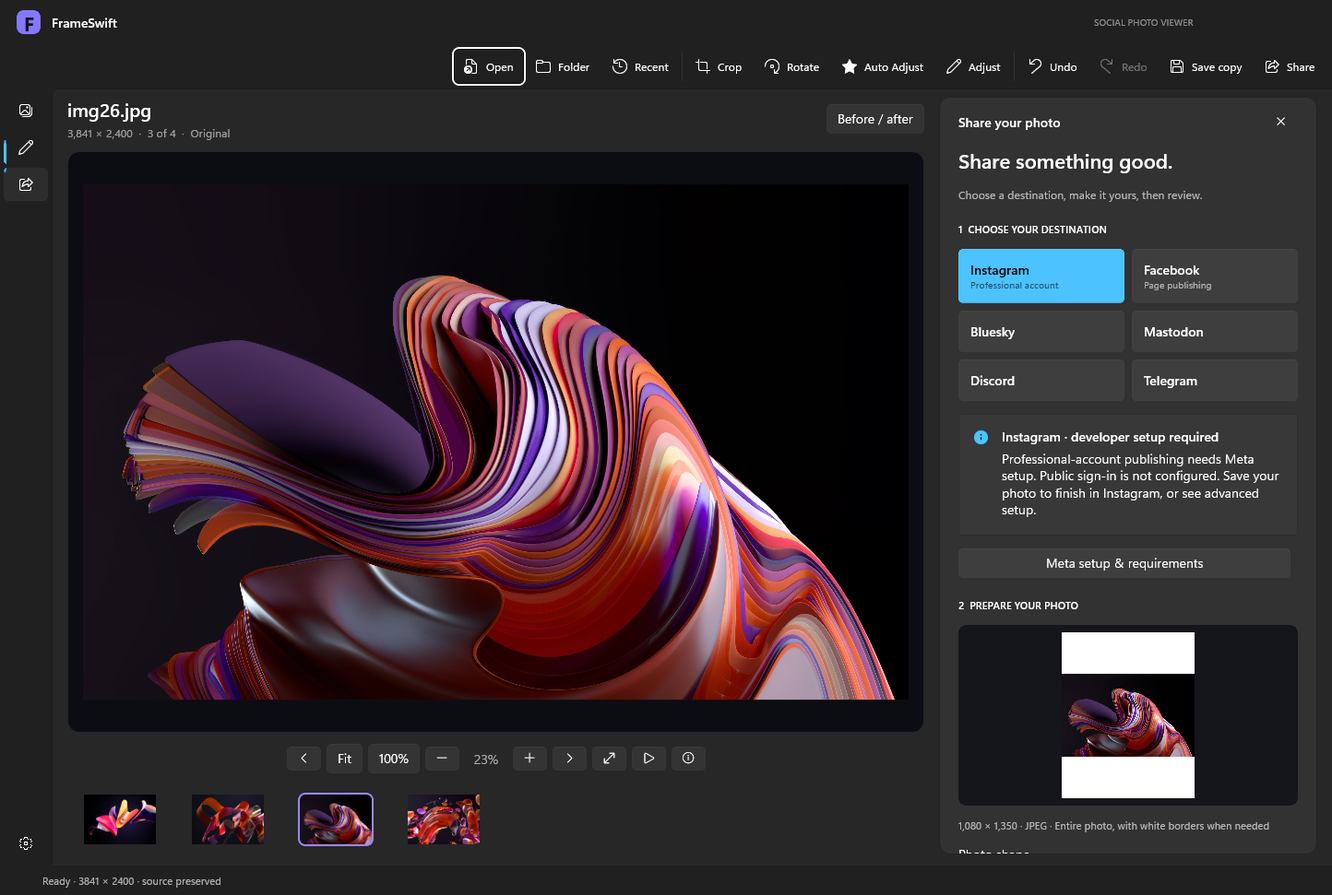
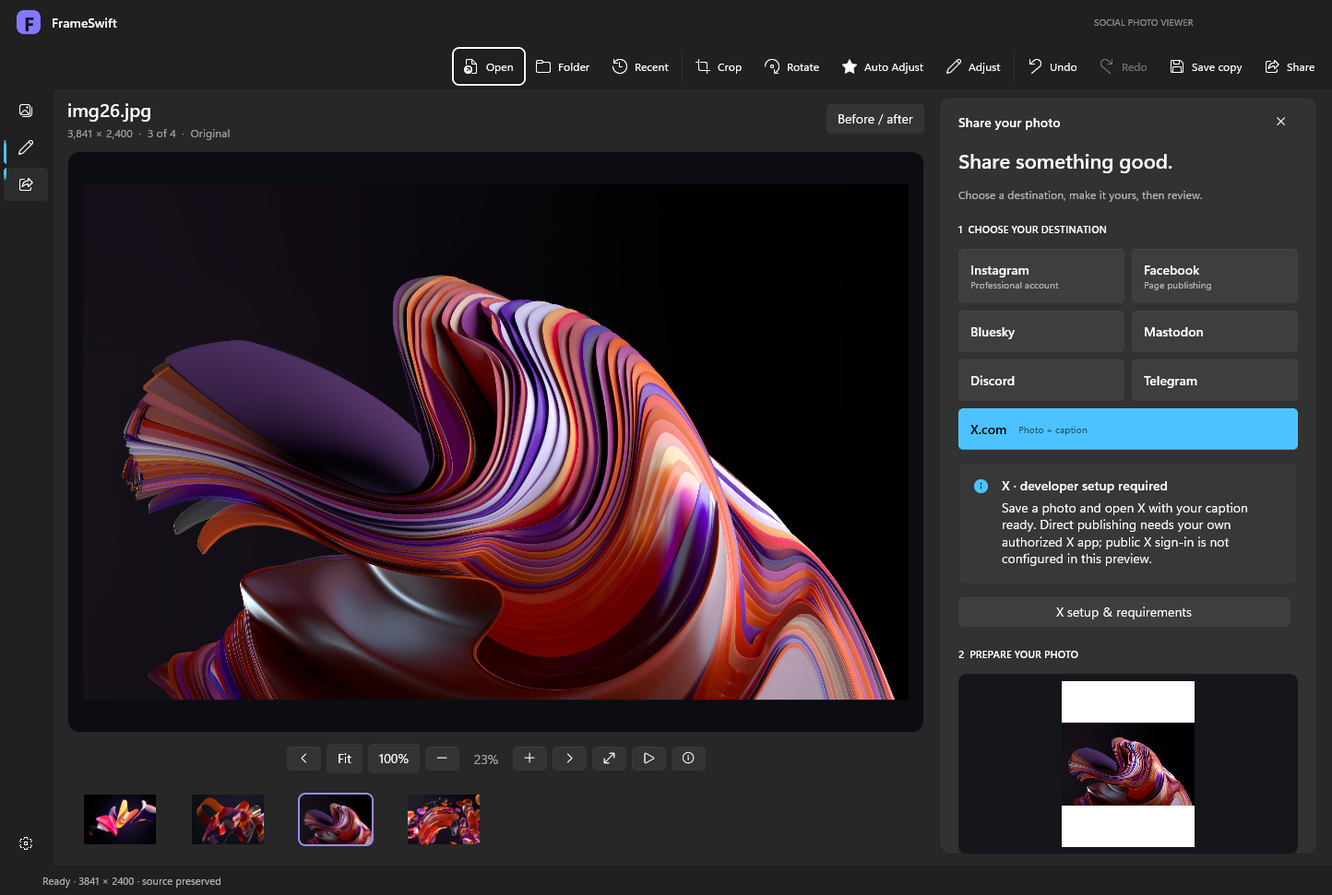
Add X.com sharing options, setup guide, and 1.2.1 download

Changed region(s): [[0.7168, 0.4325, 0.9972, 0.9578], [0.7168, 0.2781, 0.8414, 0.3399]]

diff --git a/docs/index.html b/docs/index.html
@@ -9,21 +9,21 @@
 <meta property="og:type" content="website"><meta property="og:title" content="FrameSwift — Your photos. A better view."><meta property="og:description" content="View, fine-tune, and share. A free native photo viewer for Windows by Prosper Technologies."><meta property="og:url" content="https://ProsperTechnology.github.io/frameswift/"><meta property="og:image" content="https://ProsperTechnology.github.io/frameswift/assets/viewer.png">
 <meta name="twitter:card" content="summary_large_image">
 <link rel="icon" href="assets/icon.svg" type="image/svg+xml"><link rel="stylesheet" href="style.css">
-<script type="application/ld+json">{"@context":"https://schema.org","@type":"SoftwareApplication","name":"FrameSwift Social Photo Viewer","applicationCategory":"MultimediaApplication","operatingSystem":"Windows 10 2004 or later (x64), Windows 11","softwareVersion":"1.2.0 preview","offers":{"@type":"Offer","price":"0","priceCurrency":"USD"},"author":{"@type":"Organization","name":"Prosper Technologies"},"downloadUrl":"https://github.com/ProsperTechnology/frameswift/releases/download/v1.2.0/FrameSwift-1.2.0-Setup-x64.exe"}</script>
+<script type="application/ld+json">{"@context":"https://schema.org","@type":"SoftwareApplication","name":"FrameSwift Social Photo Viewer","applicationCategory":"MultimediaApplication","operatingSystem":"Windows 10 2004 or later (x64), Windows 11","softwareVersion":"1.2.1 preview","offers":{"@type":"Offer","price":"0","priceCurrency":"USD"},"author":{"@type":"Organization","name":"Prosper Technologies"},"downloadUrl":"https://github.com/ProsperTechnology/frameswift/releases/download/v1.2.1/FrameSwift-1.2.1-Setup-x64.exe"}</script>
 <script src="script.js" defer></script>
 </head>
 <body>
 <a class="skip" href="#main">Skip to content</a>
 <header class="header"><a class="brand" href="#" aria-label="FrameSwift home"><img src="assets/icon.svg" width="36" height="36" alt=""><span>FrameSwift<small>SOCIAL PHOTO VIEWER</small></span></a><nav id="nav" aria-label="Main navigation"><a href="#experience">Experience</a><a href="#editing">Editing</a><a href="#sharing">Sharing</a><a href="#faq">Questions</a><a class="nav-download" href="#download">Get FrameSwift <span aria-hidden="true">↗</span></a></nav></header>
 <main id="main">
-<section class="hero wrap"><div class="hero-copy"><a class="pill" href="#download"><span class="dot"></span> FREE WINDOWS PREVIEW <span>1.2.0 ↗</span></a><h1>Your photos.<br>A <em>better</em> view.</h1><p class="lede">Give your photos the space they deserve.<br>View beautifully. Fine-tune effortlessly.<br>Share when you’re ready.</p><div class="actions"><a class="button primary download" href="https://github.com/ProsperTechnology/frameswift/releases/download/v1.2.0/FrameSwift-1.2.0-Setup-x64.exe"><svg viewBox="0 0 24 24" aria-hidden="true"><path d="M12 3v12m-5-5 5 5 5-5M4 16v5h16v-5"/></svg> Download for Windows</a><a class="text-link" href="#experience">Take a closer look <span>↓</span></a></div><p class="micro">Free preview · Windows 10 / 11 · 64-bit · 85 MB</p></div><div class="hero-art"><div class="art-caption"><span>01 / A VIEW WORTH OPENING</span><span>FRAMESWIFT FOR WINDOWS</span></div><a href="#experience" class="hero-window" aria-label="Explore the FrameSwift viewer"><img src="assets/viewer.png" alt="Actual FrameSwift photo viewer with folder thumbnails, zoom controls, and editing toolbar" width="1444" height="971" fetchpriority="high"></a><div class="floating-note"><span class="spark">✦</span><div>Your photo, front and center.<small>A native Windows experience.</small></div></div><div class="art-footer"><span>OPEN. ENJOY. MAKE IT YOURS.</span><span class="orbital">↗</span></div></div></section>
+<section class="hero wrap"><div class="hero-copy"><a class="pill" href="#download"><span class="dot"></span> FREE WINDOWS PREVIEW <span>1.2.1 ↗</span></a><h1>Your photos.<br>A <em>better</em> view.</h1><p class="lede">Give your photos the space they deserve.<br>View beautifully. Fine-tune effortlessly.<br>Share when you’re ready.</p><div class="actions"><a class="button primary download" href="https://github.com/ProsperTechnology/frameswift/releases/download/v1.2.1/FrameSwift-1.2.1-Setup-x64.exe"><svg viewBox="0 0 24 24" aria-hidden="true"><path d="M12 3v12m-5-5 5 5 5-5M4 16v5h16v-5"/></svg> Download for Windows</a><a class="text-link" href="#experience">Take a closer look <span>↓</span></a></div><p class="micro">Free preview · Windows 10 / 11 · 64-bit · 85 MB</p></div><div class="hero-art"><div class="art-caption"><span>01 / A VIEW WORTH OPENING</span><span>FRAMESWIFT FOR WINDOWS</span></div><a href="#experience" class="hero-window" aria-label="Explore the FrameSwift viewer"><img src="assets/viewer.png" alt="Actual FrameSwift photo viewer with folder thumbnails, zoom controls, and editing toolbar" width="1444" height="971" fetchpriority="high"></a><div class="floating-note"><span class="spark">✦</span><div>Your photo, front and center.<small>A native Windows experience.</small></div></div><div class="art-footer"><span>OPEN. ENJOY. MAKE IT YOURS.</span><span class="orbital">↗</span></div></div></section>
 <div class="capability-bar"><div class="wrap"><span>BUILT AROUND YOUR PHOTOS</span><p>Fullscreen viewing <b>✦</b> Nondestructive edits <b>✦</b> Sharing options <b>✦</b> Free to use</p></div></div>
 <section class="wrap experience section" id="experience"><div class="section-intro"><span class="eyebrow">01 — THE EVERYDAY VIEWER, RECONSIDERED</span><h2>Less in the way.<br><em>More in the frame.</em></h2><p>Open a photo. Browse the whole folder. Step into fullscreen. FrameSwift brings the essentials together in a photo-first workspace.</p></div><div class="showcase"><div class="tabs" role="tablist" aria-label="App screenshots"><button id="tab-viewer" role="tab" aria-selected="true" aria-controls="screenshot-panel" data-view="viewer" tabindex="0">01 <span>View</span></button><button id="tab-editor" role="tab" aria-selected="false" aria-controls="screenshot-panel" data-view="editor" tabindex="-1">02 <span>Edit</span></button><button id="tab-fullscreen" role="tab" aria-selected="false" aria-controls="screenshot-panel" data-view="fullscreen" tabindex="-1">03 <span>Immerse</span></button><button id="tab-sharing" role="tab" aria-selected="false" aria-controls="screenshot-panel" data-view="sharing" tabindex="-1">04 <span>Share</span></button></div><div id="screenshot-panel" class="screenshot-panel" role="tabpanel" aria-labelledby="tab-viewer" tabindex="0"><img id="app-shot" src="assets/viewer.png" alt="FrameSwift viewer with folder thumbnails and zoom controls" width="1444" height="971" loading="lazy"></div><div class="shot-caption"><p id="shot-description">Browse a folder, jump between thumbnails, zoom to actual pixels, or let a slideshow take over.</p><span>ACTUAL APP CAPTURE</span></div></div><div class="viewer-details"><article><span>↔</span><h3>Find your flow</h3><p>Arrow-key browsing, drag-and-drop, a thumbnail strip, and recent folders keep everyday viewing simple.</p></article><article><span>⤢</span><h3>Look a little closer</h3><p>Fit to window, inspect at 100%, zoom and pan, or hide the interface in fullscreen.</p></article><article><span>◐</span><h3>Make it feel at home</h3><p>Light and dark appearance, saved preferences, and an invitation to become your default viewer.</p></article></div></section>
 <section class="edit-section" id="editing"><div class="wrap edit-grid"><div class="edit-visual"><img src="assets/editor.png" alt="FrameSwift native editor showing crop and image adjustment tools" width="1444" height="971" loading="lazy"><div class="edit-tag"><span>✦</span> Small changes. Big difference.</div></div><div class="edit-copy"><span class="eyebrow">02 — A LITTLE POLISH GOES A LONG WAY</span><h2>That’s the shot.<br><em>Now make it shine.</em></h2><p>You shouldn’t need a separate creative suite to straighten up a photo or give it a little life.</p><ol class="edit-list"><li><span>01</span><div><h3>Find the perfect frame</h3><p>Crop freely or use square, portrait, landscape, and story presets. Rotate and flip in a moment.</p></div></li><li><span>02</span><div><h3>Let Auto Adjust help</h3><p>Start with a one-click tone and color adjustment. Then dial in exposure, highlights, shadows, warmth, and sharpness.</p></div></li><li><span>03</span><div><h3>Keep your original</h3><p>Compare before and after, undo your changes, and save a full-resolution JPEG or PNG copy.</p></div></li></ol><span class="small-label">YOUR SOURCE PHOTO STAYS UNCHANGED.</span></div></div></section>
-<section class="wrap section sharing" id="sharing"><div class="section-intro"><span class="eyebrow">03 — FROM YOUR FOLDER TO YOUR PEOPLE</span><h2>Great photos<br>deserve <em>company.</em></h2><p>Finish the edit, add your words, review the destination. Sharing belongs in the same flow.</p></div><div class="share-explorer"><div class="platforms" aria-label="Explore sharing integrations"><button class="platform" data-platform="instagram" aria-pressed="false"><span class="platform-letter">I</span><span>Instagram<small>Meta setup required</small></span><span>↗</span></button><button class="platform" data-platform="facebook" aria-pressed="false"><span class="platform-letter">F</span><span>Facebook<small>Page integration prepared</small></span><span>↗</span></button><button class="platform active" data-platform="bluesky" aria-pressed="true"><span class="platform-letter">B</span><span>Bluesky<small>Photo + caption</small></span><span>↗</span></button><button class="platform" data-platform="mastodon" aria-pressed="false"><span class="platform-letter">M</span><span>Mastodon<small>Your server, your audience</small></span><span>↗</span></button><button class="platform" data-platform="discord" aria-pressed="false"><span class="platform-letter">D</span><span>Discord<small>Channel webhooks</small></span><span>↗</span></button><button class="platform" data-platform="telegram" aria-pressed="false"><span class="platform-letter">T</span><span>Telegram<small>Bot-powered sharing</small></span><span>↗</span></button></div><div class="share-detail" aria-live="polite"><span class="eyebrow">EXPLORE YOUR SHARING OPTIONS</span><h3 id="platform-title">A photo worth a post.</h3><p id="platform-description">Connect Bluesky with your handle and an app password. Add a caption and image description, then review before publishing a public post.</p><div class="share-steps"><span>Connect</span><i>→</i><span>Compose</span><i>→</i><span>Review & share</span></div><p class="share-note">Connections stay in memory and clear when the app closes. Integrations are in preview; live publishing needs broader verification. Instagram/Facebook developer setup and ordinary website handoff are described separately.</p></div></div><p class="integration-limit">Instagram and Facebook now have a guided photo handoff and prepared developer publishing integrations. Public Meta sign-in is not configured. <a href="meta-setup.txt">Read the Meta setup guide ↗</a></p></section>
+<section class="wrap section sharing" id="sharing"><div class="section-intro"><span class="eyebrow">03 — FROM YOUR FOLDER TO YOUR PEOPLE</span><h2>Great photos<br>deserve <em>company.</em></h2><p>Finish the edit, add your words, review the destination. Sharing belongs in the same flow.</p></div><div class="share-explorer"><div class="platforms" aria-label="Explore sharing integrations"><button class="platform" data-platform="x" aria-pressed="false"><span class="platform-letter">X</span><span>X.com<small>Caption-ready browser sharing</small></span><span>↗</span></button><button class="platform" data-platform="instagram" aria-pressed="false"><span class="platform-letter">I</span><span>Instagram<small>Meta setup required</small></span><span>↗</span></button><button class="platform" data-platform="facebook" aria-pressed="false"><span class="platform-letter">F</span><span>Facebook<small>Page integration prepared</small></span><span>↗</span></button><button class="platform active" data-platform="bluesky" aria-pressed="true"><span class="platform-letter">B</span><span>Bluesky<small>Photo + caption</small></span><span>↗</span></button><button class="platform" data-platform="mastodon" aria-pressed="false"><span class="platform-letter">M</span><span>Mastodon<small>Your server, your audience</small></span><span>↗</span></button><button class="platform" data-platform="discord" aria-pressed="false"><span class="platform-letter">D</span><span>Discord<small>Channel webhooks</small></span><span>↗</span></button><button class="platform" data-platform="telegram" aria-pressed="false"><span class="platform-letter">T</span><span>Telegram<small>Bot-powered sharing</small></span><span>↗</span></button></div><div class="share-detail" aria-live="polite"><span class="eyebrow">EXPLORE YOUR SHARING OPTIONS</span><h3 id="platform-title">A photo worth a post.</h3><p id="platform-description">Connect Bluesky with your handle and an app password. Add a caption and image description, then review before publishing a public post.</p><div class="share-steps"><span>Connect</span><i>→</i><span>Compose</span><i>→</i><span>Review & share</span></div><p class="share-note">Connections stay in memory and clear when the app closes. Integrations are in preview; live publishing needs broader verification. Instagram/Facebook/X developer setup and ordinary website handoff are described separately.</p></div></div><p class="integration-limit">Instagram and Facebook now have a guided photo handoff and prepared developer publishing integrations. Public Meta sign-in is not configured. <a href="meta-setup.txt">Read the Meta setup guide ↗</a> · X.com includes a caption-prefilled browser handoff and a prepared API integration. <a href="x-setup.txt">X setup guide ↗</a></p></section>
 <section class="trust-section"><div class="wrap trust-grid"><div><span class="eyebrow">A DESKTOP APP. YOUR DESKTOP.</span><h2>At home on Windows.<br><em>Respectful of your photos.</em></h2></div><div class="trust-points"><article><h3>Native, through and through</h3><p>Built with WinUI 3 and hardware-accelerated image effects. Designed for a Windows desktop workflow.</p></article><article><h3>Your files stay local</h3><p>No FrameSwift cloud account, analytics, or ads. Direct uploads require confirmation. Instagram developer tests additionally use a public image host you control.</p></article><article><h3>You choose the default</h3><p>FrameSwift asks on first launch. Choose Make default to open Windows Settings, or Not now to carry on.</p></article></div></div></section>
-<section class="wrap section faq" id="faq"><div><span class="eyebrow">A FEW THINGS TO KNOW</span><h2>Good questions.<br><em>Clear answers.</em></h2><a class="text-link" href="https://github.com/ProsperTechnology/frameswift/issues">Have feedback? Open an issue ↗</a></div><div class="questions"><details open><summary>Is FrameSwift free?</summary><p>Yes. The current FrameSwift preview is free to download and use, with no subscription, ads, or FrameSwift account required.</p></details><details><summary>What does my PC need?</summary><p>A 64-bit PC running Windows 10 version 2004 or later, or Windows 11. Windows 11 is the primary test platform. The installer includes the app runtimes and Microsoft’s signed Visual C++ runtime installer, used if needed.</p></details><details><summary>Can it replace my default image viewer?</summary><p>FrameSwift asks on first launch. Choose Make default, then select FrameSwift Social Photo Viewer for your image types in Windows Default apps. You can revisit this from FrameSwift Settings. Your Windows choices are never changed without your selection.</p></details><details><summary>Which image formats can I open?</summary><p>JPEG, PNG, BMP, GIF, and TIFF are the basic formats. GIF and TIFF display the first frame or page. WebP, HEIC/HEIF, and AVIF depend on installed Windows codecs. RAW, SVG, animated playback, and multipage navigation are not included.</p></details><details><summary>Does editing change the original photo?</summary><p>Edits are kept as a recipe while you work. Save copy exports a new JPEG or PNG and protects the original filename. Optional recovery can restore edits after an unexpected exit when the original source still matches.</p></details><details><summary>What should I know about this preview?</summary><p>Version 1.2.0 is an early preview. The app and installer are unsigned, so Windows may display a publisher warning. Check the release and checksum before deciding to install. Rendering, export, persistence, installation, reinstall, and uninstall checks passed; live social posting, all codecs, and every hardware configuration have not been verified. Instagram/Facebook public sign-in requires a configured Meta app, approval, and hosted services. Full-resolution operations are limited to 80 megapixels and device limits.</p></details><details><summary>How do I uninstall it?</summary><p>Remove FrameSwift from Windows Settings → Apps → Installed apps. The uninstaller removes the application and its owned registration and shortcuts. Your personal photos and saved preferences are preserved.</p></details></div></section>
-<section class="wrap download-section" id="download"><div class="download-card"><div><span class="eyebrow">MAKE ROOM FOR A BETTER VIEW</span><h2>Your next photo<br>looks good <em>here.</em></h2><p>FrameSwift Social Photo Viewer<br>Free Windows preview by Prosper Technologies.</p><a class="button cream download" href="https://github.com/ProsperTechnology/frameswift/releases/download/v1.2.0/FrameSwift-1.2.0-Setup-x64.exe">Download for Windows <span>↓</span></a><p class="download-meta">VERSION 1.2.0 · 85 MB · WINDOWS X64</p></div><div class="download-info"><span class="release-label">PREVIEW RELEASE</span><h3>Ready to try it?</h3><ol><li>Download and run the Windows installer.</li><li>Open a photo or folder in FrameSwift.</li><li>Choose whether to make it your default viewer.</li></ol><p>This preview is unsigned. Windows may display a publisher warning. Review the release details before installing.</p><div class="release-links"><a href="https://github.com/ProsperTechnology/frameswift/releases/tag/v1.2.0">Release notes ↗</a><a href="https://github.com/ProsperTechnology/frameswift/releases/download/v1.2.0/FrameSwift-1.2.0-Setup-x64.exe.sha256">SHA-256 file ↓</a></div><button class="checksum" id="copy-checksum">Copy installer checksum <span>⧉</span></button><code id="checksum">4d4e78719da79d437983aa29094d97ff92fae21a20506c1576d89015dc500162</code><span id="copy-status" role="status"></span></div></div></section>
+<section class="wrap section faq" id="faq"><div><span class="eyebrow">A FEW THINGS TO KNOW</span><h2>Good questions.<br><em>Clear answers.</em></h2><a class="text-link" href="https://github.com/ProsperTechnology/frameswift/issues">Have feedback? Open an issue ↗</a></div><div class="questions"><details open><summary>Is FrameSwift free?</summary><p>Yes. The current FrameSwift preview is free to download and use, with no subscription, ads, or FrameSwift account required.</p></details><details><summary>What does my PC need?</summary><p>A 64-bit PC running Windows 10 version 2004 or later, or Windows 11. Windows 11 is the primary test platform. The installer includes the app runtimes and Microsoft’s signed Visual C++ runtime installer, used if needed.</p></details><details><summary>Can it replace my default image viewer?</summary><p>FrameSwift asks on first launch. Choose Make default, then select FrameSwift Social Photo Viewer for your image types in Windows Default apps. You can revisit this from FrameSwift Settings. Your Windows choices are never changed without your selection.</p></details><details><summary>Which image formats can I open?</summary><p>JPEG, PNG, BMP, GIF, and TIFF are the basic formats. GIF and TIFF display the first frame or page. WebP, HEIC/HEIF, and AVIF depend on installed Windows codecs. RAW, SVG, animated playback, and multipage navigation are not included.</p></details><details><summary>Does editing change the original photo?</summary><p>Edits are kept as a recipe while you work. Save copy exports a new JPEG or PNG and protects the original filename. Optional recovery can restore edits after an unexpected exit when the original source still matches.</p></details><details><summary>What should I know about this preview?</summary><p>Version 1.2.1 is an early preview. The app and installer are unsigned, so Windows may display a publisher warning. Check the release and checksum before deciding to install. Rendering, export, persistence, installation, reinstall, and uninstall checks passed; live social posting, all codecs, and every hardware configuration have not been verified. Instagram/Facebook public sign-in requires a configured Meta app, approval, and hosted services. Full-resolution operations are limited to 80 megapixels and device limits.</p></details><details><summary>How do I uninstall it?</summary><p>Remove FrameSwift from Windows Settings → Apps → Installed apps. The uninstaller removes the application and its owned registration and shortcuts. Your personal photos and saved preferences are preserved.</p></details></div></section>
+<section class="wrap download-section" id="download"><div class="download-card"><div><span class="eyebrow">MAKE ROOM FOR A BETTER VIEW</span><h2>Your next photo<br>looks good <em>here.</em></h2><p>FrameSwift Social Photo Viewer<br>Free Windows preview by Prosper Technologies.</p><a class="button cream download" href="https://github.com/ProsperTechnology/frameswift/releases/download/v1.2.1/FrameSwift-1.2.1-Setup-x64.exe">Download for Windows <span>↓</span></a><p class="download-meta">VERSION 1.2.1 · 85 MB · WINDOWS X64</p></div><div class="download-info"><span class="release-label">PREVIEW RELEASE</span><h3>Ready to try it?</h3><ol><li>Download and run the Windows installer.</li><li>Open a photo or folder in FrameSwift.</li><li>Choose whether to make it your default viewer.</li></ol><p>This preview is unsigned. Windows may display a publisher warning. Review the release details before installing.</p><div class="release-links"><a href="https://github.com/ProsperTechnology/frameswift/releases/tag/v1.2.1">Release notes ↗</a><a href="https://github.com/ProsperTechnology/frameswift/releases/download/v1.2.1/FrameSwift-1.2.1-Setup-x64.exe.sha256">SHA-256 file ↓</a></div><button class="checksum" id="copy-checksum">Copy installer checksum <span>⧉</span></button><code id="checksum">e321e31efcd9bd36d3b8c6467454376c803ee5f347eb13ad1dc1a218db11e2dd</code><span id="copy-status" role="status"></span></div></div></section>
 </main>
 <footer class="wrap footer"><a class="brand" href="#"><img src="assets/icon.svg" width="30" height="30" alt=""><span>FrameSwift<small>BY PROSPER TECHNOLOGIES</small></span></a><p>View. Fine-tune. Share.</p><div><a href="https://github.com/ProsperTechnology/frameswift">GitHub ↗</a><a href="https://github.com/ProsperTechnology/frameswift/issues">Feedback ↗</a><span>© 2026 Prosper Technologies</span></div></footer>
 </body></html>

diff --git a/docs/script.js b/docs/script.js
@@ -1,8 +1,8 @@
 'use strict';
-const views={sharing:{src:"assets/sharing.png",alt:"FrameSwift sharing workspace showing Instagram and Facebook destinations and prepared photo preview",description:"Choose a destination, preview the photo, add a caption, and review. Meta connections clearly show the setup still needed."},viewer:{src:'assets/viewer.png',alt:'FrameSwift viewer with folder thumbnails and zoom controls',description:'Browse a folder, jump between thumbnails, zoom to actual pixels, or let a slideshow take over.'},editor:{src:'assets/editor.png',alt:'FrameSwift editor with native crop and image adjustment controls',description:'Crop, rotate, and fine-tune tone and color. Compare your changes and save a new copy.'},fullscreen:{src:'assets/fullscreen.png',alt:'FrameSwift immersive fullscreen photo view',description:'Let the photo fill the screen. Step into immersive fullscreen and keep the interface out of the way.'}};
+const views={sharing:{src:"assets/sharing.png",alt:"FrameSwift sharing workspace showing X.com, Instagram and Facebook destinations and prepared photo preview",description:"Choose a destination, preview the photo, add a caption, and review. Meta connections clearly show the setup still needed."},viewer:{src:'assets/viewer.png',alt:'FrameSwift viewer with folder thumbnails and zoom controls',description:'Browse a folder, jump between thumbnails, zoom to actual pixels, or let a slideshow take over.'},editor:{src:'assets/editor.png',alt:'FrameSwift editor with native crop and image adjustment controls',description:'Crop, rotate, and fine-tune tone and color. Compare your changes and save a new copy.'},fullscreen:{src:'assets/fullscreen.png',alt:'FrameSwift immersive fullscreen photo view',description:'Let the photo fill the screen. Step into immersive fullscreen and keep the interface out of the way.'}};
 const tabs=[...document.querySelectorAll('[data-view]')];
 function selectView(tab){const view=views[tab.dataset.view];tabs.forEach(t=>{t.setAttribute('aria-selected',String(t===tab));t.tabIndex=t===tab?0:-1;});const shot=document.querySelector('#app-shot');shot.src=view.src;shot.alt=view.alt;document.querySelector('#shot-description').textContent=view.description;document.querySelector('#screenshot-panel').setAttribute('aria-labelledby',tab.id);}
 tabs.forEach((tab,index)=>{tab.addEventListener('click',()=>selectView(tab));tab.addEventListener('keydown',e=>{let next;if(e.key==='ArrowRight')next=(index+1)%tabs.length;else if(e.key==='ArrowLeft')next=(index+tabs.length-1)%tabs.length;else if(e.key==='Home')next=0;else if(e.key==='End')next=tabs.length-1;else return;e.preventDefault();selectView(tabs[next]);tabs[next].focus();});});
-const platforms={instagram:["Your photo, ready for Instagram.","Choose Instagram, preview the framing, then save your photo and open Instagram to finish the post there. The professional-account API integration is prepared for developer tests; public Meta sign-in and media hosting are not configured."],facebook:["From your viewer to your Facebook Page.","Save a prepared photo and finish on Facebook. A Facebook Page photo-publishing adapter is also available for developers using their own authorized Meta app and Page token. Direct publishing to personal profiles is not supported."],bluesky:['A photo worth a post.','Connect Bluesky with your handle and an app password. Add a caption and image description, then review before publishing a public post.'],mastodon:['Share with your corner of the fediverse.','Connect to your Mastodon server through browser authorization. Write a caption and image description, then review before publishing a public post.'],discord:['Bring it to the conversation.','Connect a webhook for a Discord channel you manage. Review your image, caption, and destination before posting as the channel webhook. Forum channels are not supported.'],telegram:['Send it to your community.','Connect your Telegram bot token and chat or channel ID. Review the photo and caption before sending as your bot. The bot must have access to the destination.']};
-document.querySelectorAll('[data-platform]').forEach(button=>button.addEventListener('click',()=>{document.querySelectorAll('[data-platform]').forEach(b=>{b.classList.toggle('active',b===button);b.setAttribute('aria-pressed',String(b===button));});const content=platforms[button.dataset.platform];document.querySelector('#platform-title').textContent=content[0];document.querySelector('#platform-description').textContent=content[1];const steps=button.dataset.platform==='instagram'||button.dataset.platform==='facebook'?['Prepare photo','Save JPEG','Finish on platform']:['Connect','Compose','Review & share'];document.querySelectorAll('.share-steps span').forEach((span,index)=>span.textContent=steps[index]);}));
+const platforms={x:["Take your photo to X.com.","Save a share-ready JPEG and open X with your caption prefilled. Attach the saved photo and publish on X. A direct upload/post adapter is prepared for developer testing with an authorized X user token; public X sign-in is not configured. X controls API access and usage charges."],instagram:["Your photo, ready for Instagram.","Choose Instagram, preview the framing, then save your photo and open Instagram to finish the post there. The professional-account API integration is prepared for developer tests; public Meta sign-in and media hosting are not configured."],facebook:["From your viewer to your Facebook Page.","Save a prepared photo and finish on Facebook. A Facebook Page photo-publishing adapter is also available for developers using their own authorized Meta app and Page token. Direct publishing to personal profiles is not supported."],bluesky:['A photo worth a post.','Connect Bluesky with your handle and an app password. Add a caption and image description, then review before publishing a public post.'],mastodon:['Share with your corner of the fediverse.','Connect to your Mastodon server through browser authorization. Write a caption and image description, then review before publishing a public post.'],discord:['Bring it to the conversation.','Connect a webhook for a Discord channel you manage. Review your image, caption, and destination before posting as the channel webhook. Forum channels are not supported.'],telegram:['Send it to your community.','Connect your Telegram bot token and chat or channel ID. Review the photo and caption before sending as your bot. The bot must have access to the destination.']};
+document.querySelectorAll('[data-platform]').forEach(button=>button.addEventListener('click',()=>{document.querySelectorAll('[data-platform]').forEach(b=>{b.classList.toggle('active',b===button);b.setAttribute('aria-pressed',String(b===button));});const content=platforms[button.dataset.platform];document.querySelector('#platform-title').textContent=content[0];document.querySelector('#platform-description').textContent=content[1];const steps=button.dataset.platform==='x'?['Prepare photo','Open X with caption','Attach photo & post']:button.dataset.platform==='instagram'||button.dataset.platform==='facebook'?['Prepare photo','Save JPEG','Finish on platform']:['Connect','Compose','Review & share'];document.querySelectorAll('.share-steps span').forEach((span,index)=>span.textContent=steps[index]);}));
 document.querySelector('#copy-checksum').addEventListener('click',async()=>{const status=document.querySelector('#copy-status');try{await navigator.clipboard.writeText(document.querySelector('#checksum').textContent);status.textContent='Checksum copied.';}catch{status.textContent='Select and copy the checksum shown above.';const range=document.createRange();range.selectNodeContents(document.querySelector('#checksum'));const selection=window.getSelection();selection.removeAllRanges();selection.addRange(range);}});

diff --git a/README.md b/README.md
@@ -2,7 +2,7 @@
 
 A free native Windows photo viewer by **Prosper Technologies**. View your photos, crop and adjust them, and prepare them for sharing in one app.
 
-**[Visit the website](https://ProsperTechnology.github.io/frameswift/)** · **[Download for Windows](https://github.com/ProsperTechnology/frameswift/releases/tag/v1.2.0)**
+**[Visit the website](https://ProsperTechnology.github.io/frameswift/)** · **[Download for Windows](https://github.com/ProsperTechnology/frameswift/releases/tag/v1.2.1)**
 
 ![FrameSwift native Windows photo viewer](docs/assets/viewer.png)
 
@@ -17,7 +17,7 @@ A free native Windows photo viewer by **Prosper Technologies**. View your photos
 | Fullscreen and slideshow | Before/after and undo/redo | Telegram bots |
 | Light/dark appearance | Full-resolution JPEG/PNG copies | Review before publishing |
 
-## Preview 1.2.0
+## Preview 1.2.1
 
 New sharing workspace: destination tiles, framing preview, caption counts, account status, image descriptions, disconnect, and final review. Switching platforms preserves your caption draft.
 
@@ -38,7 +38,7 @@ Windows 10 version 2004 or later, x64. Windows 11 is the primary test platform. 
 
 ### Know what is included
 
-The current build is an early preview. Live social publishing still needs broader verification. Instagram and Facebook now have destination tiles, prepared developer API adapters, and a save-photo/open-website handoff. Public Meta sign-in is not configured. Facebook API publishing targets Pages; Instagram requires a professional account linked to a Page and a hosted prepared JPEG. See [Meta setup](docs/meta-setup.txt). X and other social networks remain unconnected. RAW, SVG, animated playback, and multipage navigation are not included. See the release notes for complete limits.
+The current build is an early preview. Live social publishing still needs broader verification. Instagram and Facebook now have destination tiles, prepared developer API adapters, and a save-photo/open-website handoff. Public Meta sign-in is not configured. Facebook API publishing targets Pages; Instagram requires a professional account linked to a Page and a hosted prepared JPEG. See [Meta setup](docs/meta-setup.txt). X.com now has a caption-prefilled browser handoff and a prepared direct-publishing adapter. Public X sign-in is not configured. See [X setup](docs/x-setup.txt). Other social networks remain unconnected. RAW, SVG, animated playback, and multipage navigation are not included. See the release notes for complete limits.
 
 Photos stay on your PC until you approve a social publication. FrameSwift has no analytics, ads, or cloud account. Social connections stay in memory and clear on exit.
 
